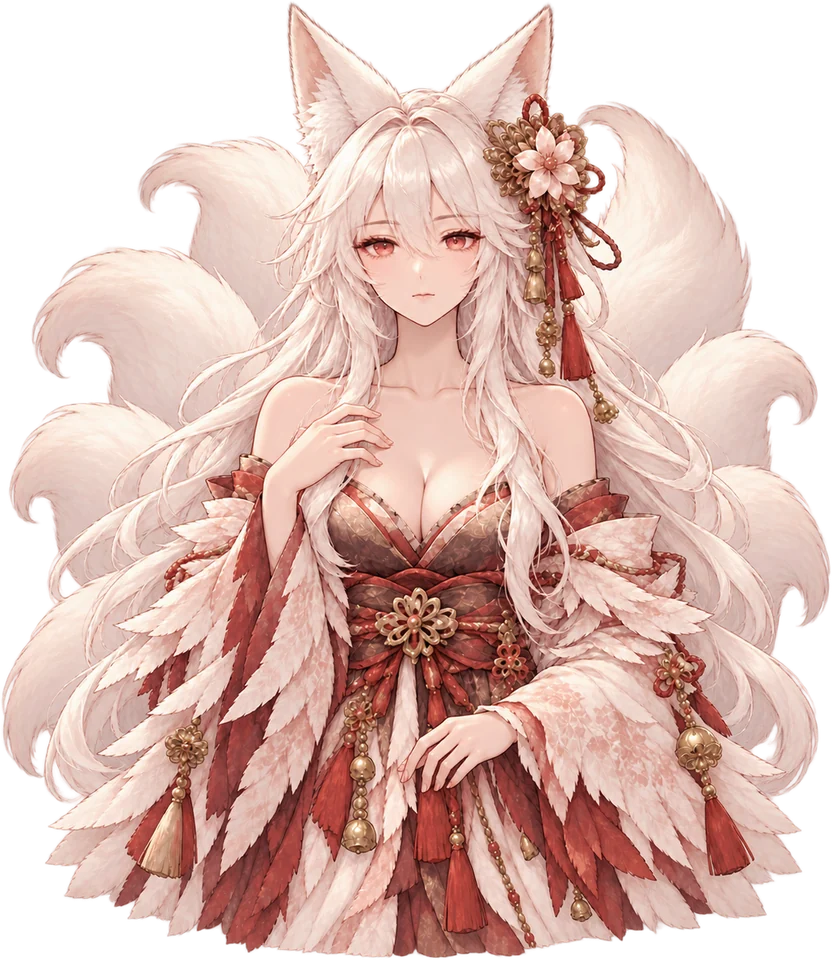
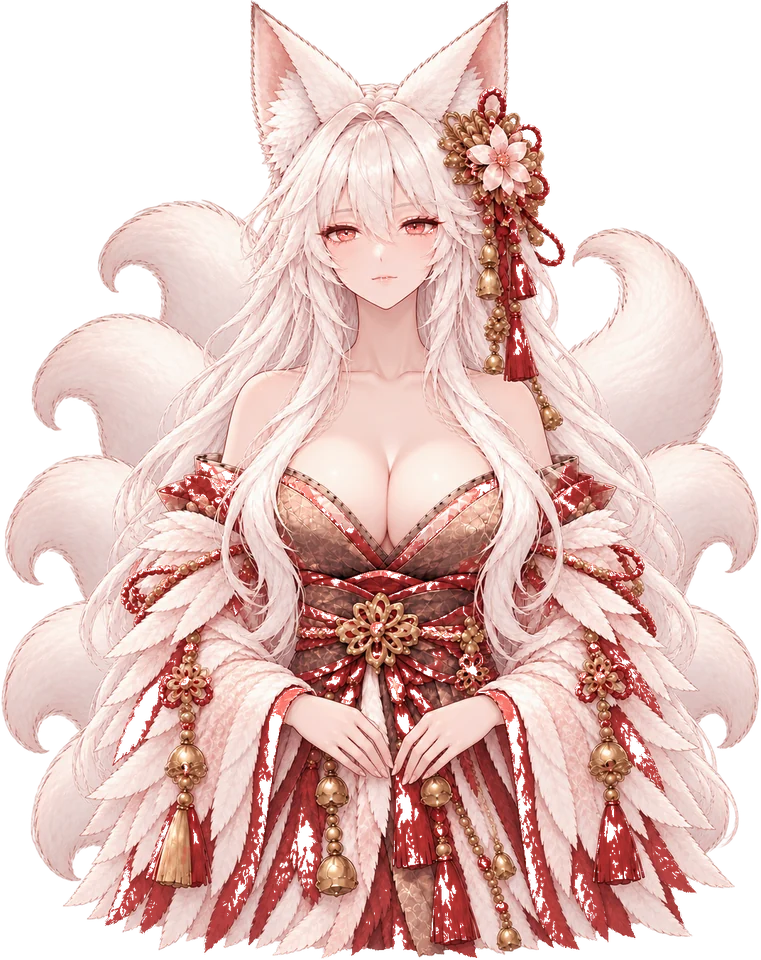
V025: 모바일 성능 최적화, 대화창 UI 개편, 전환 입자 제거, 일러스트 2종 교체
Claude-Session: https://claude.ai/code/session_01Aco8HhP7YXSGTKT47YLZLM

diff --git a/index.html b/index.html
@@ -130,7 +130,7 @@ h1{font-family:var(--f-disp);font-weight:400;font-size:clamp(52px,13vw,104px);le
 .namer input{background:rgba(0,0,0,.4);border:1px solid var(--line);color:var(--bone);padding:10px 12px;font:inherit;width:160px;border-radius:2px}
 
 /* HUD */
-#hud{position:absolute;inset:0;pointer-events:none;text-shadow:0 1px 2px #000,0 0 10px rgba(0,0,0,.85)}
+#hud{position:absolute;inset:0;pointer-events:none;text-shadow:0 1px 2px #000,0 0 4px rgba(0,0,0,.75)}
 .tl::before{content:'';position:absolute;inset:-12px -40px -10px -16px;background:radial-gradient(ellipse at 20% 30%,rgba(6,6,9,.6),rgba(6,6,9,0) 70%);z-index:-1}
 #hud .pe{pointer-events:auto}
 .tl{position:absolute;left:16px;top:calc(12px + env(safe-area-inset-top,0px));width:min(320px,calc(100vw - 96px));display:grid;gap:6px}
@@ -218,6 +218,7 @@ h1{font-family:var(--f-disp);font-weight:400;font-size:clamp(52px,13vw,104px);le
 .toast{background:rgba(10,10,14,.86);border:1px solid rgba(232,224,204,.12);padding:5px 12px;font-size:12.5px;border-radius:2px;animation:tin .2s ease-out;max-width:100%;overflow:hidden;text-overflow:ellipsis;white-space:nowrap}
 .toast.out{opacity:0;transition:opacity .4s}
 /* V020 장비 획득·해체 알림: 왼쪽 아래 임무 안내 바로 위 · 작게 */
+#perfHud{position:absolute;left:50%;top:calc(2px + env(safe-area-inset-top,0px));transform:translateX(-50%);font:11px var(--f-num);color:#cfe9a8;background:rgba(0,0,0,.55);padding:1px 8px;border-radius:2px;z-index:5}
 #lootLog{position:absolute;left:16px;bottom:calc(150px + env(safe-area-inset-bottom,0px));display:grid;gap:2px;justify-items:start;max-width:min(300px,calc(100vw - 32px));pointer-events:none;transform-origin:0 100%}
 .lt{background:rgba(8,8,12,.72);border-left:2px solid var(--gc,#888);padding:2px 8px;font-size:11px;line-height:1.45;border-radius:0 2px 2px 0;max-width:100%;overflow:hidden;text-overflow:ellipsis;white-space:nowrap;animation:tin .18s ease-out;color:#d8d0bc}
 .lt em{font-style:normal;color:var(--mute);margin-right:4px}.lt.out{opacity:0;transition:opacity .4s}
@@ -332,33 +333,32 @@ table.st tr+tr{border-top:1px solid rgba(232,224,204,.07)}
 
 /* visual novel · V019: 가운데 둥근 말풍선 + 양옆 스탠딩 일러스트 (서로 겹치지 않도록 JS가 배치한다) */
 #vn{position:fixed;inset:0;z-index:40;display:block;background:radial-gradient(ellipse at 50% 42%,rgba(0,0,0,.22),rgba(0,0,0,.74));cursor:pointer;overflow:hidden}
-#vn .por{position:absolute;bottom:0;height:min(80vh,660px);aspect-ratio:.76;margin:0;padding:0;line-height:0;max-width:none;transform-origin:50% 100%;transition:filter .4s,transform .4s,opacity .4s;filter:drop-shadow(0 0 24px rgba(0,0,0,.8));will-change:transform,filter}
+#vn .por{position:absolute;bottom:0;height:min(80vh,660px);aspect-ratio:.76;margin:0;padding:0;line-height:0;max-width:none;transform-origin:50% 100%;transition:filter .35s,transform .35s,opacity .35s;will-change:transform,opacity}
 #vn .por svg,#vn .por img{width:100%;height:100%;display:block}
 #vn .por img{object-fit:contain;object-position:50% 100%}
 #vn .por.L{left:0}#vn .por.R{right:0}
-#vn .por.on{transform:scale(1.06);filter:drop-shadow(0 0 28px rgba(0,0,0,.85)) brightness(1.05);opacity:1;z-index:1}
-#vn .por.dim{transform:scale(.97);filter:grayscale(1) brightness(.55) blur(1.4px);opacity:.62}
+#vn .por.on{transform:scale(1.06);filter:none;opacity:1;z-index:1}
+#vn .por.dim{transform:scale(.97);filter:grayscale(1) brightness(.55);opacity:.62}
 #vn .por:empty{opacity:0}
 #vn .por.emo img{animation:vnShk .5s cubic-bezier(.36,.07,.19,.97)}
 #vn .por.emo2 img{animation:vnShk2 .75s cubic-bezier(.36,.07,.19,.97)}
 @keyframes vnShk{10%,90%{transform:translateX(-2px)}20%,80%{transform:translateX(4px)}30%,50%,70%{transform:translateX(-6px)}40%,60%{transform:translateX(6px)}}
 @keyframes vnShk2{0%{transform:scale(1)}8%{transform:scale(1.035) translateX(-9px) rotate(-.8deg)}16%{transform:scale(1.035) translateX(9px) rotate(.8deg)}24%{transform:scale(1.03) translateX(-8px)}34%{transform:scale(1.025) translateX(7px) rotate(.5deg)}46%{transform:scale(1.02) translateX(-5px)}60%{transform:translateX(3px)}75%{transform:translateX(-2px)}100%{transform:none}}
-/* V022 말풍선: 낡은 양피지 그림을 9조각으로 늘려 대사 길이에 맞춘다 (::before · 반투명) · 이름은 왼쪽 위 이름칸에 */
-#vnBox{position:absolute;left:50%;top:58%;transform:translateY(-50%);margin:0;width:min(760px,calc(100% - 32px));--bk:.6;min-height:calc(150px*var(--bk));max-height:60vh;overflow:visible;
-  padding:calc(78px*var(--bk) + 6px) calc(52px*var(--bk) + 12px) calc(58px*var(--bk) + 6px);border:0;border-radius:0;background:none;box-shadow:none;z-index:2}
-#vnBox::before{content:'';position:absolute;inset:0;z-index:-1;pointer-events:none;opacity:.9;border-style:solid;border-width:calc(70px*var(--bk)) calc(60px*var(--bk)) calc(60px*var(--bk)) calc(370px*var(--bk));
-  border-image:url(img/vn_box.webp) 70 60 60 370 fill / calc(70px*var(--bk)) calc(60px*var(--bk)) calc(60px*var(--bk)) calc(370px*var(--bk)) stretch;filter:drop-shadow(0 8px 18px rgba(0,0,0,.55))}
-#vnBox .nm{position:absolute;left:calc(52px*var(--bk));top:calc(9px*var(--bk));width:calc(296px*var(--bk));height:calc(46px*var(--bk));display:flex;align-items:center;justify-content:center;padding:0;margin:0;background:none;border:0;
-  font-family:var(--f-disp);font-size:clamp(12px,calc(25px*var(--bk)),17px);letter-spacing:.08em;color:#4a3018;text-shadow:none;white-space:nowrap;overflow:hidden}
-#vnBox .nm:empty{display:flex}
-#vnT{margin:0;font-size:calc(17px*var(--vnS,1));line-height:1.72;max-width:none;white-space:pre-wrap;color:#2e2216;text-shadow:0 0 1px rgba(255,248,230,.6);word-break:keep-all;overflow-wrap:anywhere}
-#vnBox.narr::before{opacity:.78}
-#vnBox.narr #vnT{color:#4a3a2a;font-family:var(--f-disp);font-size:calc(17.5px*var(--vnS,1));text-align:center}
-#vnBox .nx{position:absolute;right:calc(56px*var(--bk) + 4px);bottom:calc(46px*var(--bk));color:#5a4028;animation:blink 1.1s infinite;font-size:11px}
-#vnBox .pg{position:absolute;left:auto;right:calc(56px*var(--bk) + 22px);bottom:calc(46px*var(--bk));font-size:10px;letter-spacing:.1em;color:rgba(74,48,24,.6)}
+/* V025 말풍선: 깔끔한 반투명 둥근 사각형 · 흐림·그림자 없음 (모바일 부담 감소) · 대사는 또렷하게 */
+#vnBox{position:absolute;left:50%;top:58%;transform:translateY(-50%);margin:0;width:min(760px,calc(100% - 32px));min-height:104px;max-height:60vh;overflow:visible;
+  padding:16px 24px 24px;border:1px solid rgba(232,224,204,.16);border-radius:16px;background:rgba(11,11,16,.76);box-shadow:none;z-index:2;-webkit-backdrop-filter:none;backdrop-filter:none}
+#vnBox::before,#vnBox::after{content:none;display:none}
+#vnBox .nm{position:static;display:block;width:auto;height:auto;margin:0 0 9px;padding:0 0 8px;background:none;border:0;border-bottom:1px solid rgba(201,168,106,.28);
+  font-family:var(--f-disp);font-size:calc(15.5px*var(--vnS,1));letter-spacing:.14em;color:#dcbd7e;text-shadow:none;white-space:nowrap;overflow:hidden;text-overflow:ellipsis}
+#vnBox .nm:empty{display:none}
+#vnT{margin:0;font-size:calc(19px*var(--vnS,1));line-height:1.72;max-width:none;white-space:pre-wrap;color:#f3eee2;text-shadow:0 1px 0 rgba(0,0,0,.55);word-break:keep-all;overflow-wrap:anywhere;letter-spacing:.01em}
+#vnBox.narr{background:rgba(7,7,10,.66);border-color:rgba(232,224,204,.1)}
+#vnBox.narr #vnT{color:#ddd4bf;font-family:var(--f-disp);font-size:calc(19.5px*var(--vnS,1));text-align:center}
+#vnBox .nx{position:absolute;right:16px;bottom:8px;color:rgba(220,189,126,.85);animation:blink 1.1s infinite;font-size:11px}
+#vnBox .pg{position:absolute;left:auto;right:34px;bottom:8px;font-size:10px;letter-spacing:.1em;color:rgba(243,238,226,.4)}
 @keyframes blink{50%{opacity:.2}}
 #vn .skip{position:absolute;right:16px;top:calc(14px + env(safe-area-inset-top,0px));font-size:12px;background:rgba(0,0,0,.55);border:1px solid var(--line);padding:6px 12px;z-index:3;border-radius:2px}
-#vn.pm #vnT{font-size:calc(15.5px*var(--vnS,1));line-height:1.66}
+#vn.pm #vnT{font-size:calc(17.5px*var(--vnS,1));line-height:1.7}#vn.pm #vnBox{padding:16px 20px 26px;border-radius:14px}
 
 #trans{position:fixed;inset:0;width:100%;height:100%;pointer-events:none;z-index:30;display:none}
 #death{position:fixed;inset:0;display:grid;place-content:center;gap:8px;text-align:center;background:radial-gradient(circle,rgba(60,0,10,.35),rgba(0,0,0,.85));z-index:25;padding:16px}
@@ -424,7 +424,7 @@ table.st tr+tr{border-top:1px solid rgba(232,224,204,.07)}
 /* 대화: 스탠딩 일러스트 높이 통일, 반투명 대화창 */
 .por{height:min(80vh,640px);width:auto;aspect-ratio:auto;max-width:none}
 .por img{height:100%;width:auto;object-fit:contain;display:block}
-.box{background:linear-gradient(180deg,rgba(14,14,20,.58),rgba(8,8,12,.7));-webkit-backdrop-filter:blur(3px);backdrop-filter:blur(3px)}
+.box{background:linear-gradient(180deg,rgba(14,14,20,.58),rgba(8,8,12,.7));}
 @media (max-width:640px){.por{height:50vh}}
 @media (max-height:520px){.por{height:84vh}}
 /* 장비 강화 표시 */
@@ -486,6 +486,7 @@ table.st tr+tr{border-top:1px solid rgba(232,224,204,.07)}
     <div id="gauge" hidden><span id="gaugeT">보스 출현까지</span><div class="bar g"><i id="gaugeF"></i></div></div>
     <div id="toasts"></div>
     <div id="lootLog" aria-live="polite"></div>
+    <div id="perfHud" hidden></div>
     <div class="skb" id="skb"></div>
     <button id="talkB" class="talk pe" hidden></button>
     <button id="dashB" class="dash pe" aria-label="대쉬 (Space)"><img class="di" src="img/sk_dash.webp" alt="" draggable="false"><small>대쉬</small></button>
@@ -498,7 +499,7 @@ table.st tr+tr{border-top:1px solid rgba(232,224,204,.07)}
   <div class="screen" id="title">
     <!-- V010: 그려진 타이틀 화면. 그림 속 버튼 자리에 투명한 진짜 버튼을 겹쳐 둔다 (위치는 그림 크기 대비 %) -->
     <div class="tart" role="img" aria-label="혈월야행 · 핏빛 달 아래, 이름 잃은 망자의 끝없는 사냥">
-      <span class="tver num" id="tVer">V024</span>
+      <span class="tver num" id="tVer">V025</span>
       <button class="thot" id="bNew" aria-label="새로 깨어나기"></button>
       <button class="thot" id="bCont" aria-label="이어하기"></button>
       <button class="thot" id="fsTitle" aria-label="전체화면으로"></button>
@@ -2053,16 +2054,16 @@ function transTick(dt){if(!TR.on)return;const c=$('#trans'),x=c.getContext('2d')
   x.fillStyle='#030206';x.fillRect(0,0,w,h);
   if(T<F+HOLD)return;
   const k=Math.min(1,(T-F-HOLD)/OUT),e=1-Math.pow(1-k,3),r=e*diag*1.08;
-  if(!TR.ps.length&&!RM){for(let i=0;i<90;i++){const a=Math.random()*TAU,v=(320+Math.random()*900)*d;TR.ps.push({x:cx0,y:cy0,vx:Math.cos(a)*v,vy:Math.sin(a)*v,l:.5+Math.random()*.6,s:(1.5+Math.random()*3.5)*d,c:Math.random()<.55?'255,196,120':Math.random()<.5?'255,90,110':'127,247,228'})}}
+  if(false){for(let i=0;i<90;i++){const a=Math.random()*TAU,v=(320+Math.random()*900)*d;TR.ps.push({x:cx0,y:cy0,vx:Math.cos(a)*v,vy:Math.sin(a)*v,l:.5+Math.random()*.6,s:(1.5+Math.random()*3.5)*d,c:Math.random()<.55?'255,196,120':Math.random()<.5?'255,90,110':'127,247,228'})}}
   /* 가운데부터 구멍을 넓힌다 (가장자리는 부드럽게) */
   x.globalCompositeOperation='destination-out';const g=x.createRadialGradient(cx0,cy0,Math.max(0,r*.72),cx0,cy0,Math.max(1,r));g.addColorStop(0,'rgba(0,0,0,1)');g.addColorStop(1,'rgba(0,0,0,0)');x.fillStyle=g;x.fillRect(0,0,w,h);
   x.globalCompositeOperation='lighter';
   /* 펼쳐지는 가장자리를 따라 빛 테두리 */
   if(r>4){x.globalAlpha=.35*(1-k);x.strokeStyle='rgb(255,200,140)';x.lineWidth=3*d;x.beginPath();x.arc(cx0,cy0,r*.86,0,TAU);x.stroke()}
-  for(const p of TR.ps){if(p.l<=0)continue;p.l-=dt;p.x+=p.vx*dt;p.y+=p.vy*dt;p.vx*=.985;p.vy*=.985;const a=Math.max(0,Math.min(1,p.l*1.6));x.globalAlpha=a;
+  for(const p of []){if(p.l<=0)continue;p.l-=dt;p.x+=p.vx*dt;p.y+=p.vy*dt;p.vx*=.985;p.vy*=.985;const a=Math.max(0,Math.min(1,p.l*1.6));x.globalAlpha=a;
     x.fillStyle=`rgba(${p.c},1)`;x.beginPath();x.arc(p.x,p.y,p.s,0,TAU);x.fill();x.globalAlpha=a*.35;x.beginPath();x.arc(p.x,p.y,p.s*3,0,TAU);x.fill()}
   x.globalAlpha=1;x.globalCompositeOperation='source-over';
-  if(k>=1&&TR.ps.every(p=>p.l<=0)){TR.on=0;c.style.display='none';x.clearRect(0,0,w,h)}}
+  if(k>=1){TR.on=0;c.style.display='none';x.clearRect(0,0,w,h)}}
 function travel(id,at,opt){
   const M=MAPS[id];opt=opt||{};
   if(!opt.force&&!mapOpen(id)){toast(`<b style="color:#ff8f9d">${M.n}</b> · ${mapLockTxt(id)||'아직 갈 수 없다'}`);return false}
@@ -2131,7 +2132,14 @@ let GFX=GFX_P[GFX_Q];
 function setGfx(q){if(!GFX_P[q])return;GFX_Q=q;GFX=GFX_P[q];try{localStorage.setItem(GFXK,q)}catch(_){}resize();applyShadow()}
 /* 흐림 그림자는 휴대폰 그래픽 칩에 가장 무거운 효과라 높음에서만 켠다 (꺼질 때는 메인 캔버스의 shadowBlur 대입을 무시) */
 function applyShadow(){try{if(GFX.shadow)delete cx.shadowBlur;else Object.defineProperty(cx,'shadowBlur',{configurable:true,get(){return 0},set(_){}})}catch(_){}}
-function resize(){DPR=Math.min(GFX.dpr,window.devicePixelRatio||1);VIG.key='';VW=innerWidth;VH=innerHeight;cv.width=Math.round(VW*DPR);cv.height=Math.round(VH*DPR);ZOOM=clamp(Math.min(VW,VH)/680,.62,1.15)}
+/* V025 자동 해상도 */
+const PERF={s:1,ema:16,bad:0,good:0};
+function perfTick(ms,cap){const tgt=1000/cap;PERF.ema+=(Math.min(ms,120)-PERF.ema)*.08;
+  if(PERF.ema>tgt*1.3){PERF.bad+=ms;PERF.good=0}else if(PERF.ema<tgt*1.08){PERF.good+=ms;PERF.bad=0}
+  const base=Math.min(GFX.dpr,window.devicePixelRatio||1);
+  if(PERF.bad>2500&&base*PERF.s>1.01){PERF.s=Math.max(1/base,PERF.s-.12);PERF.bad=0;resize()}
+  else if(PERF.good>9000&&PERF.s<1){PERF.s=Math.min(1,PERF.s+.12);PERF.good=0;resize()}}
+function resize(){DPR=Math.max(1,Math.min(GFX.dpr,window.devicePixelRatio||1)*PERF.s);VIG.key='';VW=innerWidth;VH=innerHeight;cv.width=Math.round(VW*DPR);cv.height=Math.round(VH*DPR);ZOOM=clamp(Math.min(VW,VH)/680,.62,1.15)}
 addEventListener('resize',resize);resize();applyShadow();
 
 /* ================= input ================= */
@@ -2299,7 +2307,7 @@ function updPlayer(dt){
   const mv=moveVec();pl.moving=false;
   pl.atkT=Math.max(0,pl.atkT-dt);if(pl.act){pl.act.t+=dt;if(pl.act.t>=pl.act.d)pl.act=null}
   for(const t of pl.trail)t.l-=dt;pl.trail=pl.trail.filter(t=>t.l>0);
-  if(pl.dash>0){pl.dash-=dt;pl.x+=pl.dvx*dt;pl.y+=pl.dvy*dt;part(pl.x,pl.y-20,0,0,.3,CLS[pl.cls].col,5,0);pl.trail.push({x:pl.x,y:pl.y,l:.28,ml:.28,left:Math.cos(pl.face)<0})}
+  if(pl.dash>0){pl.dash-=dt;pl.x+=pl.dvx*dt;pl.y+=pl.dvy*dt;part(pl.x,pl.y-20,0,0,.3,CLS[pl.cls].col,5,0);if((pl.trK=(pl.trK||0)+1)%2===0&&pl.trail.length<6)pl.trail.push({x:pl.x,y:pl.y,l:.24,ml:.24,left:Math.cos(pl.face)<0})}
   else{
     const sp=d.spd*(pl.buffs.bless>0?1.2:1)*(pl.chan?.5:1)*(pl.buffs.r_cloak>0?1.3:1);let vx=0,vy=0;
     if(mv.x||mv.y){vx=mv.x*mv.s;vy=mv.y*mv.s;G.target=null;if(pl.mind>0){vx=-vx;vy=-vy}}
@@ -2477,7 +2485,7 @@ function drawLights(c){const Z=ZOOM;c.globalCompositeOperation='lighter';
   for(const d of G.lights){const sx=(d.x-G.cam.x)*Z,sy=(d.y-G.cam.y-30)*Z;if(sx<-120||sy<-120||sx>VW+120||sy>VH+120)continue;
     const r=(d.t==='shrine'?200:d.t==='lamp'?120:d.t==='lantern'||d.t==='redl'?95:d.t==='crystal'?80:55)*Z*(1+Math.sin(G.t*3+d.r*20)*.05);
     glow(c,sx,sy,r,LIGHT[d.t],.33)}
-  for(const p of G.projs){const sx=(p.x-G.cam.x)*Z,sy=(p.y-G.cam.y)*Z,r=(p.st==='dragon'?140:50)*Z;glow(c,sx,sy,r,'#ffffff',.12)}
+  let np=0;for(const p of G.projs){if(p.fx&&p.fx.off)continue;const sx=(p.x-G.cam.x)*Z,sy=(p.y-G.cam.y)*Z,r=(p.st==='dragon'?140:50)*Z;if(sx<-r||sy<-r||sx>VW+r||sy>VH+r)continue;if(++np>40)break;glow(c,sx,sy,r,'#ffffff',.12)}
   c.globalCompositeOperation='source-over'}
 function figure(c,o,face,bob,sc){
   c.save();c.scale(sc||1,sc||1);
@@ -2534,7 +2542,7 @@ function drawSpr(c,key,x,y,h,o){o=o||{};const im=o.src||IMG[key];if(!im)return f
 function drawPlayer(c){
   const C=CLS[pl.cls],t=G.t,a=pl.aimT>0?pl.aim:pl.face,left=Math.cos(a)<0,key=sprKey(pl.cls,left),H=82,sg=left?-1:1;
   const SB=skinBase(pl.cls,pl.skin);
-  for(const tr of pl.trail){const tw=WALK[SB+'_'+(tr.left?'L':'R')];if(tw){c.save();c.globalCompositeOperation='lighter';drawWalk(c,tw,0,tr.x,tr.y+4,H,{sil:1,alpha:tr.l/tr.ml*.28,rot:(tr.left?-1:1)*.22,sx:1.1,sy:.94});c.restore()}else{const sk='dash_'+pl.cls+'_'+(tr.left?'L':'R');if(TINT[sk])drawSpr(c,key,tr.x,tr.y+4,H,{src:TINT[sk],alpha:tr.l/tr.ml*.5,rot:(tr.left?-1:1)*.22,sx:1.1,sy:.94})}}
+  for(const tr of pl.trail){const tw=WALK[SB+'_'+(tr.left?'L':'R')];if(tw){c.save();drawWalk(c,tw,0,tr.x,tr.y+4,H,{sil:1,alpha:tr.l/tr.ml*.24,rot:(tr.left?-1:1)*.22,sx:1.1,sy:.94});c.restore()}else{const sk='dash_'+pl.cls+'_'+(tr.left?'L':'R');if(TINT[sk])drawSpr(c,key,tr.x,tr.y+4,H,{src:TINT[sk],alpha:tr.l/tr.ml*.5,rot:(tr.left?-1:1)*.22,sx:1.1,sy:.94})}}
   c.save();c.translate(pl.x,pl.y);
   c.fillStyle='rgba(0,0,0,.45)';ell(c,0,4,19,6.5);
   if(pl.buffs.iron>0&&!(pl.ironFx&&pl.ironFx.off)){c.strokeStyle='rgba(243,207,69,.6)';c.lineWidth=2;c.beginPath();c.ellipse(0,4,30,10,0,0,TAU);c.stroke()}
@@ -2721,14 +2729,18 @@ function updKp(dt){const a=G.kp;if(!a||!a.length)return;
   for(const p of a){if(p.del>0){p.del-=dt;continue}p.l-=dt;if(p.dr){const k=Math.max(0,1-p.dr*dt);p.vx*=k;p.vy*=k}p.vy+=p.g*dt;p.x+=p.vx*dt;p.y+=p.vy*dt;if(p.av)p.r=Math.atan2(p.vy,p.vx)+Math.PI/2;else p.r+=p.vr*dt}
   G.kp=a.filter(p=>p.l>0)}
 function drawKp(c,gnd){const a=G.kp;if(!a||!a.length)return;c.save();c.globalCompositeOperation='lighter';let src=0;
-  for(const p of a){if(p.del>0||(p.gnd?1:0)!==gnd)continue;const im=ktex(p.n,p.c);if(!im)continue;
+  const B=c.getTransform(),X0=G.cam.x,Y0=G.cam.y,X1=X0+VW/ZOOM,Y1=Y0+VH/ZOOM;
+  for(const p of a){if(p.del>0||(p.gnd?1:0)!==gnd)continue;
+    const px=p.fol?pl.x+p.x:p.x,py=p.fol?pl.y+p.y:p.y,mr=Math.max(p.s,p.s1)*Math.max(p.sx,p.sy,1);if(px+mr<X0||px-mr>X1||py+mr<Y0||py-mr>Y1)continue;
+    const im=ktex(p.n,p.c);if(!im)continue;
     const k=1-p.l/p.ml,e=1-(1-k)*(1-k),s=p.s+(p.s1-p.s)*e,al=k<p.fi?k/p.fi:Math.pow(Math.max(0,(1-k)/(1-p.fi)),p.pw);
     if(p.src!==src){src=p.src;c.globalCompositeOperation=src?'source-over':'lighter'}
     c.globalAlpha=Math.max(0,Math.min(1,al*p.al));const w=s*p.sx,h=s*p.sy;
-    c.save();c.translate(p.fol?pl.x+p.x:p.x,p.fol?pl.y+p.y:p.y);
-    /* V021: 바닥 그림은 먼저 납작하게 누른 뒤 돌린다 (돌아도 원근이 유지된다) */
-    if(p.gnd&&p.sy<1&&p.vr){c.scale(1,p.sy);if(p.r)c.rotate(p.r);c.drawImage(im,-w/2,-s/2,w,s)}else{if(p.r)c.rotate(p.r);c.drawImage(im,-w/2,-h/2,w,h)}c.restore()}
-  c.restore()}
+    /* V021: 바닥 그림은 먼저 납작하게 누른 뒤 돌린다 · V025: 행렬을 직접 계산 (save/restore 없음) */
+    const sy=p.gnd&&p.sy<1&&p.vr?p.sy:1,co=p.r?Math.cos(p.r):1,si=p.r?Math.sin(p.r):0;
+    c.setTransform(B.a*co+B.c*sy*si,B.b*co+B.d*sy*si,-B.a*si+B.c*sy*co,-B.b*si+B.d*sy*co,B.a*px+B.c*py+B.e,B.b*px+B.d*py+B.f);
+    if(sy!==1)c.drawImage(im,-w/2,-s/2,w,s);else c.drawImage(im,-w/2,-h/2,w,h)}
+  c.setTransform(B);c.restore()}
 /* 바닥/공중 고정 그림 한 장 (구역·투사체용: 파티클이 아니라 매 프레임 직접 그림) */
 function kdraw(c,n,col,x,y,s,r,al,sx,sy){const im=ktex(n,col);if(!im)return 0;c.save();c.globalAlpha=Math.max(0,Math.min(1,al));c.translate(x,y);if(r)c.rotate(r);const w=s*(sx||1),h=s*(sy||1);c.drawImage(im,-w/2,-h/2,w,h);c.restore();return 1}
 /* ---- 조합용 부품 ---- */
@@ -2922,7 +2934,9 @@ function drawWorld(){
   const wt=()=>c.setTransform(DPR*Z,0,0,DPR*Z,(-G.cam.x*Z+sx)*DPR,(-G.cam.y*Z+sy)*DPR);
   wt();
   const bgi=M.bg&&IMG['bg_'+M.bg];
-  if(bgi)c.drawImage(bgi,0,0,M.w,M.h);else{c.fillStyle=G.pat||M.ground;c.fillRect(0,0,M.w,M.h)}
+  /* V025: 큰 배경 그림은 화면에 보이는 부분만 잘라 그린다 (모바일 GPU 부담 감소) */
+  if(bgi){const vx0=Math.max(0,G.cam.x-40),vy0=Math.max(0,G.cam.y-40),vx1=Math.min(M.w,G.cam.x+VW/Z+40),vy1=Math.min(M.h,G.cam.y+VH/Z+40),kx=bgi.width/M.w,ky=bgi.height/M.h;
+    if(vx1>vx0&&vy1>vy0)c.drawImage(bgi,vx0*kx,vy0*ky,(vx1-vx0)*kx,(vy1-vy0)*ky,vx0,vy0,vx1-vx0,vy1-vy0)}else{c.fillStyle=G.pat||M.ground;c.fillRect(0,0,M.w,M.h)}
   if(M.tint){c.fillStyle=M.tint;c.fillRect(0,0,M.w,M.h)}
   if(M.end&&bgi){c.globalCompositeOperation='multiply';c.fillStyle='rgba(120,60,70,.6)';c.fillRect(0,0,M.w,M.h);c.globalCompositeOperation='source-over'}
   const x0=G.cam.x-160,y0=G.cam.y-160,x1=G.cam.x+VW/Z+160,y1=G.cam.y+VH/Z+200;const vis=o=>o.x>x0&&o.x<x1&&o.y>y0&&o.y<y1;
@@ -2951,7 +2965,7 @@ function drawWorld(){
   if(G.raid&&G.raid.blackT>0){const k=Math.min(1,G.raid.blackT,(7-G.raid.blackT)*3);const g2=c.createRadialGradient(px,py-30*Z,60*Z,px,py-30*Z,190*Z);g2.addColorStop(0,'rgba(0,0,0,0)');g2.addColorStop(1,`rgba(2,1,6,${.97*k})`);c.fillStyle=g2;c.fillRect(0,0,VW,VH);
     wt();c.globalAlpha=.55*k;for(const t of G.teles)if(t.dark)drawTele(c,t);c.globalAlpha=1;c.setTransform(DPR,0,0,DPR,0,0)}
   wt();
-  for(const t of G.texts){const a=Math.min(1,t.l/t.ml*2);c.globalAlpha=a;c.font=`${t.bold?'700':'500'} ${t.size}px "IBM Plex Mono","Gowun Dodum",monospace`;c.textAlign='center';c.fillStyle='rgba(0,0,0,.75)';c.fillText(t.s,t.x+1,t.y+1);c.fillStyle=t.c;c.fillText(t.s,t.x,t.y)}c.globalAlpha=1;
+  c.textAlign='center';let lastF='';for(const t of G.texts){const a=Math.min(1,t.l/t.ml*2);c.globalAlpha=a;const ft=`${t.bold?'700':'500'} ${t.size}px "IBM Plex Mono","Gowun Dodum",monospace`;if(ft!==lastF){c.font=ft;lastF=ft}c.fillStyle='rgba(0,0,0,.75)';c.fillText(t.s,t.x+1,t.y+1);c.fillStyle=t.c;c.fillText(t.s,t.x,t.y)}c.globalAlpha=1;
   c.setTransform(DPR,0,0,DPR,0,0);
   if(pl.hp<pl.d.mhp*.3){const k=VW+'x'+VH;if(LOWV.key!==k){LOWV.key=k;const cc=LOWV.c||(LOWV.c=document.createElement('canvas'));cc.width=Math.ceil(VW/2);cc.height=Math.ceil(VH/2);const x=cc.getContext('2d'),w=cc.width,h=cc.height;
      const v=x.createRadialGradient(w/2,h/2,Math.min(w,h)*.3,w/2,h/2,Math.max(w,h)*.7);v.addColorStop(0,'rgba(140,0,20,0)');v.addColorStop(1,'rgba(140,0,20,1)');x.fillStyle=v;x.fillRect(0,0,w,h)}
@@ -3033,12 +3047,12 @@ function vn(lines,done){const pm=vnPM(),max=pm?50:74,ch=[];
 function vnLayout(){if(!G.vn)return;const W=innerWidth,H=innerHeight,pm=vnPM(),pR=$('#porR'),bx=$('#vnBox'),R=POR_R;
   $('#vn').classList.toggle('pm',pm);let ph,pw;
   if(pm){ph=H*.5;pw=ph*R;if(pw>W*.98){pw=W*.98;ph=pw/R}pR.style.right=((W-pw)/2)+'px';
-    const top=60,bot=H-ph-14,bw=Math.min(W-24,640);bx.style.width=bw+'px';bx.style.left=((W-bw)/2)+'px';bx.style.top=top+'px';bx.style.transform='none';
-    bx.style.setProperty('--bk',Math.min(.62,bw/1060*1.05).toFixed(3));bx.style.maxHeight=Math.max(120,bot-top)+'px';bx.style.overflowY='auto'}
+    const top=60,bot=H-ph*1.06-12,bw=Math.min(W-24,640);bx.style.width=bw+'px';bx.style.left=((W-bw)/2)+'px';bx.style.top='auto';bx.style.bottom=(H-bot)+'px';bx.style.transform='none';
+    bx.style.minHeight=Math.round(Math.min(bot-top,H*.24))+'px';bx.style.maxHeight=Math.max(120,bot-top)+'px';bx.style.overflowY='auto'}
   else{ph=H<=520?H*.94:Math.min(H*.92,820);pw=ph*R;const right=Math.max(0,Math.min(W*.04,(W-1500)/2+40));
     const left=Math.max(18,W*.05);let bw=Math.min(820,W-right-pw-left-28);
     if(bw<340){pw=Math.max(140,W-right-left-28-340);ph=pw/R;bw=Math.min(820,W-right-pw-left-28)}
-    pR.style.right=right+'px';bx.style.width=bw+'px';bx.style.left=left+'px';bx.style.top=(H*.6)+'px';bx.style.transform='translateY(-50%)';
+    pR.style.right=right+'px';bx.style.width=bw+'px';bx.style.left=left+'px';bx.style.top=(H*.6)+'px';bx.style.bottom='auto';bx.style.minHeight='';bx.style.transform='translateY(-50%)';
     bx.style.setProperty('--bk',Math.min(.62,bw/1060*1.05).toFixed(3));bx.style.maxHeight=(H*.7)+'px';bx.style.overflowY='visible'}
   pR.style.height=ph+'px';pR.style.width=pw+'px';pR.style.left='auto';$('#porL').style.display='none'}
 addEventListener('resize',()=>vnLayout());
@@ -3193,7 +3207,7 @@ function setH(){const s=pl.set,ts=ROOT.ts?new Date(ROOT.ts).toLocaleString('ko-K
     ${chk('autoLoot','넓은 범위 줍기','멀리 떨어진 장비도 끌어당긴다',s.autoLoot)}
     ${chk('lootMsg','장비 획득·해체 알림','왼쪽 아래 임무 안내 위에 띄운다',s.lootMsg!==false)}
     ${chk('lootNum','재화 획득량','금화·강화석·정수를 주울 때 양을 띄운다',s.lootNum!==false)}</div>`,
-   screen:`<div class="set"><label><span>그래픽 품질<small>발열이 심하면 「절전」 · 「높음」은 선명하지만 발열이 크다</small></span><select data-gfx="1">${Object.entries(GFX_P).map(([k,v])=>`<option value="${k}"${GFX_Q===k?' selected':''}>${v.n} · 초당 ${v.fps}회</option>`).join('')}</select></label></div>${uiSizeH()}`,
+   screen:`<div class="set">${chk('perfHud','성능 표시','화면 위쪽에 초당 프레임·해상도를 띄운다 (끊김 확인용)',s.perfHud)}<label><span>그래픽 품질<small>발열이 심하면 「절전」 · 「높음」은 선명하지만 발열이 크다</small></span><select data-gfx="1">${Object.entries(GFX_P).map(([k,v])=>`<option value="${k}"${GFX_Q===k?' selected':''}>${v.n} · 초당 ${v.fps}회</option>`).join('')}</select></label></div>${uiSizeH()}`,
    sound:sndH(),
    ctl:`<p class="sec">모바일 버튼</p><p class="hint">대쉬·회복약·유물·표적·대화·기술 버튼의 위치와 크기, 조이패드 방식을 바꾼다 · 이 기기에만 저장</p>
     <div class="acts"><button class="sb pri" data-act="ctledit">버튼 배치 편집</button><button class="sb" data-act="ctlreset">기본값으로</button></div>
@@ -3379,7 +3393,9 @@ function hudPor(){const k=skinBase(pl.cls,pl.skin),el=H.hCls;if(el._por===k)retu
   if(HUDPOR[k]){el.textContent='';el.classList.add('hpor');el.style.backgroundImage=`url("${A(`img/hud_${k}.webp`)}")`}
   else{el.classList.remove('hpor');el.style.backgroundImage='';el.textContent=CLS[pl.cls].g}}
 let qcT=0;
-function hudTick(dt){hudAcc+=dt;if(hudAcc<GFX.hud||G.scene!=='play')return;hudAcc=0;const d=pl.d,M=MAPS[G.map];hudPor();
+let pfN=0,pfT=0,pfShow=0;
+function hudTick(dt){pfN++;pfT+=dt;hudAcc+=dt;if(hudAcc<GFX.hud||G.scene!=='play')return;hudAcc=0;
+  {const el=$('#perfHud'),on=!!pl.set.perfHud;if(el.hidden===on)el.hidden=!on;if(!on){pfN=0;pfT=0}else if(pfT>=.5){el.textContent=`FPS ${Math.round(pfN/pfT)} · ${(1000*pfT/pfN).toFixed(1)}ms · 해상도 ${DPR.toFixed(2)}x · 효과 ${(G.kp||[]).length}`;pfN=0;pfT=0}}const d=pl.d,M=MAPS[G.map];hudPor();
   if(G.t-qcT>1&&!G.modal&&!G.vn&&G.dead<=0){qcT=G.t;const q=qCur();if(q&&(q.type==='gear'||q.type==='gearEnh'||q.type==='enh'||q.type==='raid'||q.type==='lv'||q.type==='abyss'||q.type==='pas'||q.type==='eqg'))qEvent('check')}
   hT(H.hName,pl.name);hT(H.hMap,M.n+(M.endless?` · ${G.tier||pl.abyss+1}단계${pl.set.abyRep?' · 반복':''}`:''));
   hW(H.hpF,clamp(pl.hp/d.mhp*100,0,100)+'%');hW(H.shF,clamp(pl.shield/d.mhp*100,0,100)+'%');hT(H.hpT,fmt(Math.max(0,pl.hp))+' / '+fmt(d.mhp));
@@ -3504,7 +3520,7 @@ function sndInit(){
   try{const c=new AC();SND.ctx=c;
     SND.master=c.createGain();const comp=c.createDynamicsCompressor();comp.threshold.value=-14;comp.ratio.value=4;SND.master.connect(comp);comp.connect(c.destination);
     SND.bgmG=c.createGain();SND.sfxG=c.createGain();SND.bgmG.connect(SND.master);SND.sfxG.connect(SND.master);
-    SND.rev=c.createConvolver();SND.rev.buffer=sndImpulse(c,2.6,2.4);const rg=c.createGain();rg.gain.value=.4;SND.rev.connect(rg);rg.connect(SND.master);
+    SND.rev=c.createConvolver();SND.rev.buffer=sndImpulse(c,2.6,2.4);const rg=c.createGain();rg.gain.value=.4;SND.revG=rg;SND.revOn=0;SND.revT=0;rg.connect(SND.master);
     const n=c.sampleRate*2,b=c.createBuffer(1,n,c.sampleRate),d=b.getChannelData(0);for(let i=0;i<n;i++)d[i]=Math.random()*2-1;SND.noise=b;
     sndVol();if(c.state==='suspended')c.resume().catch(()=>{});['sk1','ui','sk_archer','sk_mage','sk_warrior','sk_healer','death','item','quest'].forEach(k=>sndLoadBuf(k,`snd/${k}.mp3`))}catch(_){SND.ctx=null}}
 function sndVol(){if(!SND.ctx)return;const v=SND.vol,t=SND.ctx.currentTime;
@@ -3514,7 +3530,8 @@ function sndVol(){if(!SND.ctx)return;const v=SND.vol,t=SND.ctx.currentTime;
 ['pointerdown','pointerup','touchstart','touchend','click','keydown'].forEach(ev=>addEventListener(ev,sndUnlock,{capture:true,passive:true}));
 document.addEventListener('visibilitychange',()=>{if(!SND.ctx)return;if(document.hidden){SND.ctx.suspend().catch(()=>{});for(const k in SND.mus){try{SND.mus[k].el.pause()}catch(_){}}if(SND.tag){try{SND.tag.pause()}catch(_){}}SND.tagOn=false}else SND.ctx.resume().catch(()=>{})});
 const mtof=n=>440*Math.pow(2,(n-69)/12);
-function sRev(g,amt){if(!amt||!GFX.rev)return;const s=SND.ctx.createGain();s.gain.value=amt;g.connect(s);s.connect(SND.rev)}
+/* V025: 잔향(합성곱)은 소리가 쓰는 동안만 연결하고, 3.5초 조용하면 떼어 낸다 (모바일 CPU·발열) */
+function sRev(g,amt){if(!amt||!GFX.rev)return;if(!SND.revOn){SND.rev.connect(SND.revG);SND.revOn=1}SND.revT=SND.ctx.currentTime;const s=SND.ctx.createGain();s.gain.value=amt;g.connect(s);s.connect(SND.rev)}
 /* 기본 음원: 오실레이터 하나 (o: to 주파수 미끄러짐, lp 저역통과, a 어택, rev 잔향, dest 출력, vib 비브라토) */
 function sOsc(type,f,t,dur,vol,o){o=o||{};const c=SND.ctx,os=c.createOscillator(),g=c.createGain();os.type=type;os.frequency.setValueAtTime(f,t);
   if(o.to)os.frequency.exponentialRampToValueAtTime(Math.max(20,o.to),t+(o.slide||dur));if(o.det)os.detune.value=o.det;
@@ -3608,7 +3625,7 @@ function musPlay(m){if(!m.el.paused)return;const pr=m.el.play();if(pr&&pr.catch)
 function musLevel(m,v,sec){m.want=v;if(m.g){const t=SND.ctx.currentTime;m.g.gain.cancelScheduledValues(t);m.g.gain.setValueAtTime(m.g.gain.value,t);m.g.gain.linearRampToValueAtTime(v,t+sec)}
   else{const vv=SND.vol.mute?0:v*SND.vol.m*SND.vol.b;m.el.volume=Math.max(0,Math.min(1,vv))}}
 /* 매 프레임: 지금 맵에 맞는 곡으로 바꾸고, 멈춘 곡은 다시 튼다 (아이폰은 첫 재생만 터치가 필요 — sndUnlock에서 처리) */
-function sndTick(){const c=SND.ctx;if(!c||c.state!=='running'||document.hidden)return;const k=bgmKey();
+function sndTick(){const c=SND.ctx;if(!c||c.state!=='running'||document.hidden)return;if(SND.revOn&&c.currentTime-SND.revT>3.5){try{SND.rev.disconnect()}catch(_){}SND.revOn=0}const k=bgmKey();
   if(SND.cur!==k){const old=SND.mus[SND.cur];if(old){musLevel(old,0,1.2);const oe=old.el;setTimeout(()=>{if(SND.mus[SND.cur]!==old)try{oe.pause()}catch(_){}},1300)}
     SND.cur=k;const m=musEl(k);musPlay(m);musLevel(m,1,1.2)}
   else{const m=SND.mus[k];if(m&&m.el.paused&&!m.blocked)musPlay(m);else if(m&&!m.el.paused&&SND.tagOn&&SND.tag){try{SND.tag.pause()}catch(_){}SND.tagOn=false}}}
@@ -3636,7 +3653,7 @@ function frame(now){
   /* V006: 초당 그리기 횟수 상한. 메뉴·대화창이 열려 멈춰 있을 때는 초당 15번만 다시 그린다 */
   const idle=G.scene==='play'&&(G.modal||G.ctlEdit),cap=idle?15:G.vn?Math.min(30,GFX.fps):GFX.fps;
   if(now-last<1000/cap-3)return;
-  const dt=Math.min(.05,(now-last)/1000);last=now;
+  const rawMs=now-last,dt=Math.min(.05,rawMs/1000);last=now;if(G.scene==='play'&&!G.modal&&!G.vn&&!document.hidden&&rawMs<500)perfTick(rawMs,cap);
   try{sndTick()}catch(_){}
   try{if(G.scene==='play'){if(!G.modal&&!G.vn&&!G.ctlEdit)update(dt);if(G.vn)vnTick(dt);drawWorld();hudTick(dt);transTick(dt)}
   else{G.t+=dt;if($('#title').hidden)drawTitle(dt)}}
